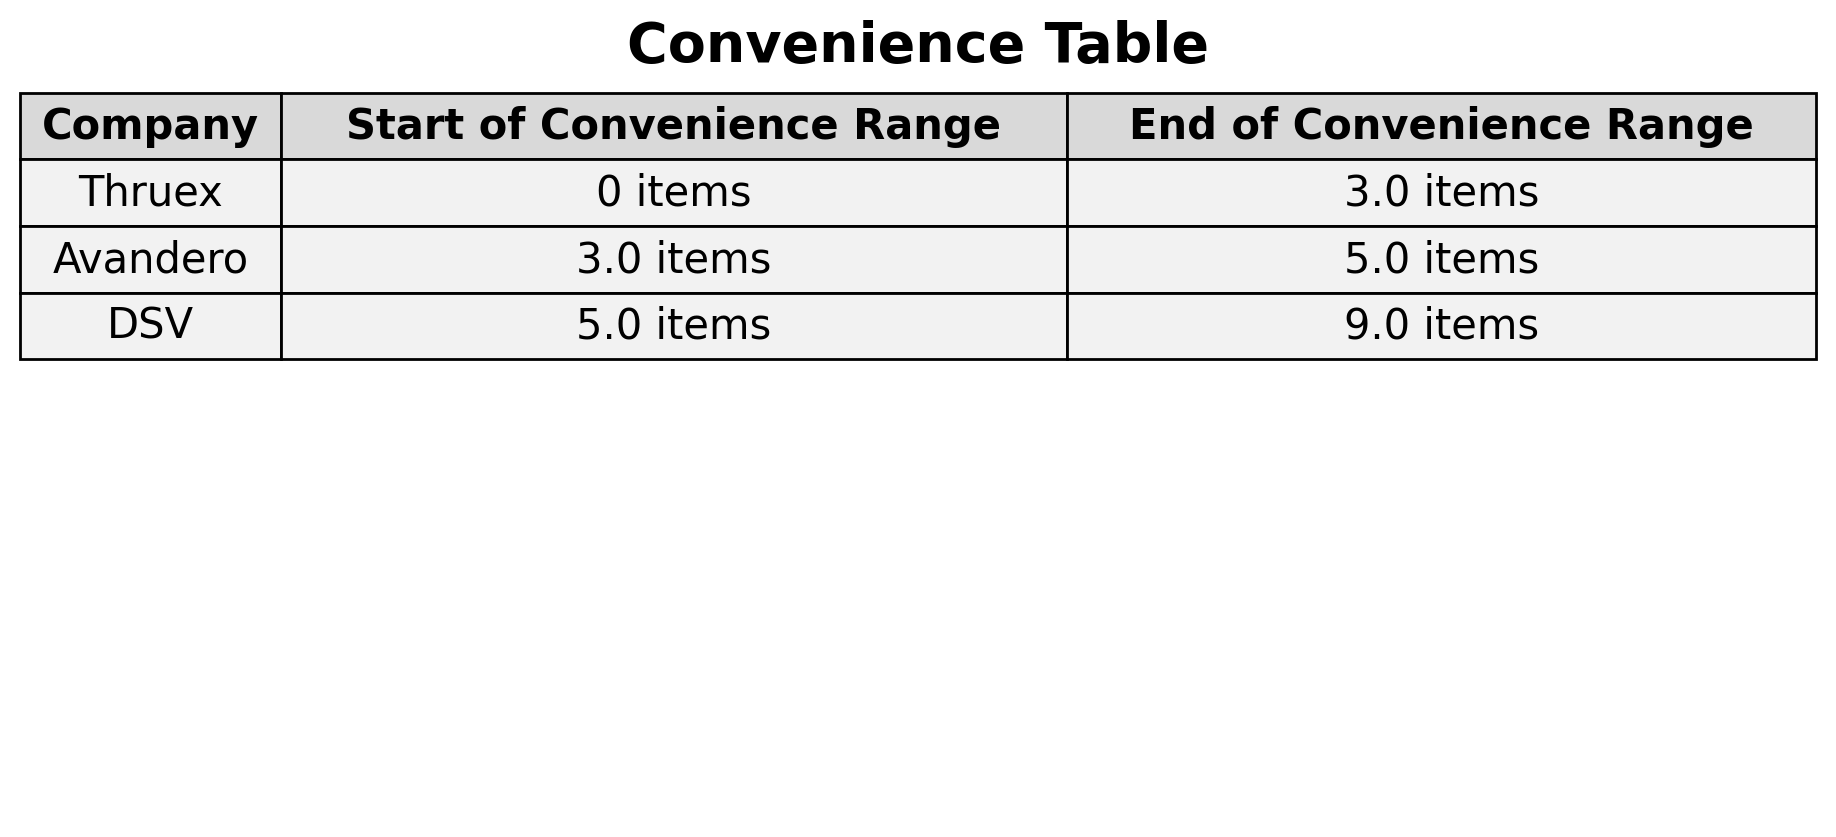
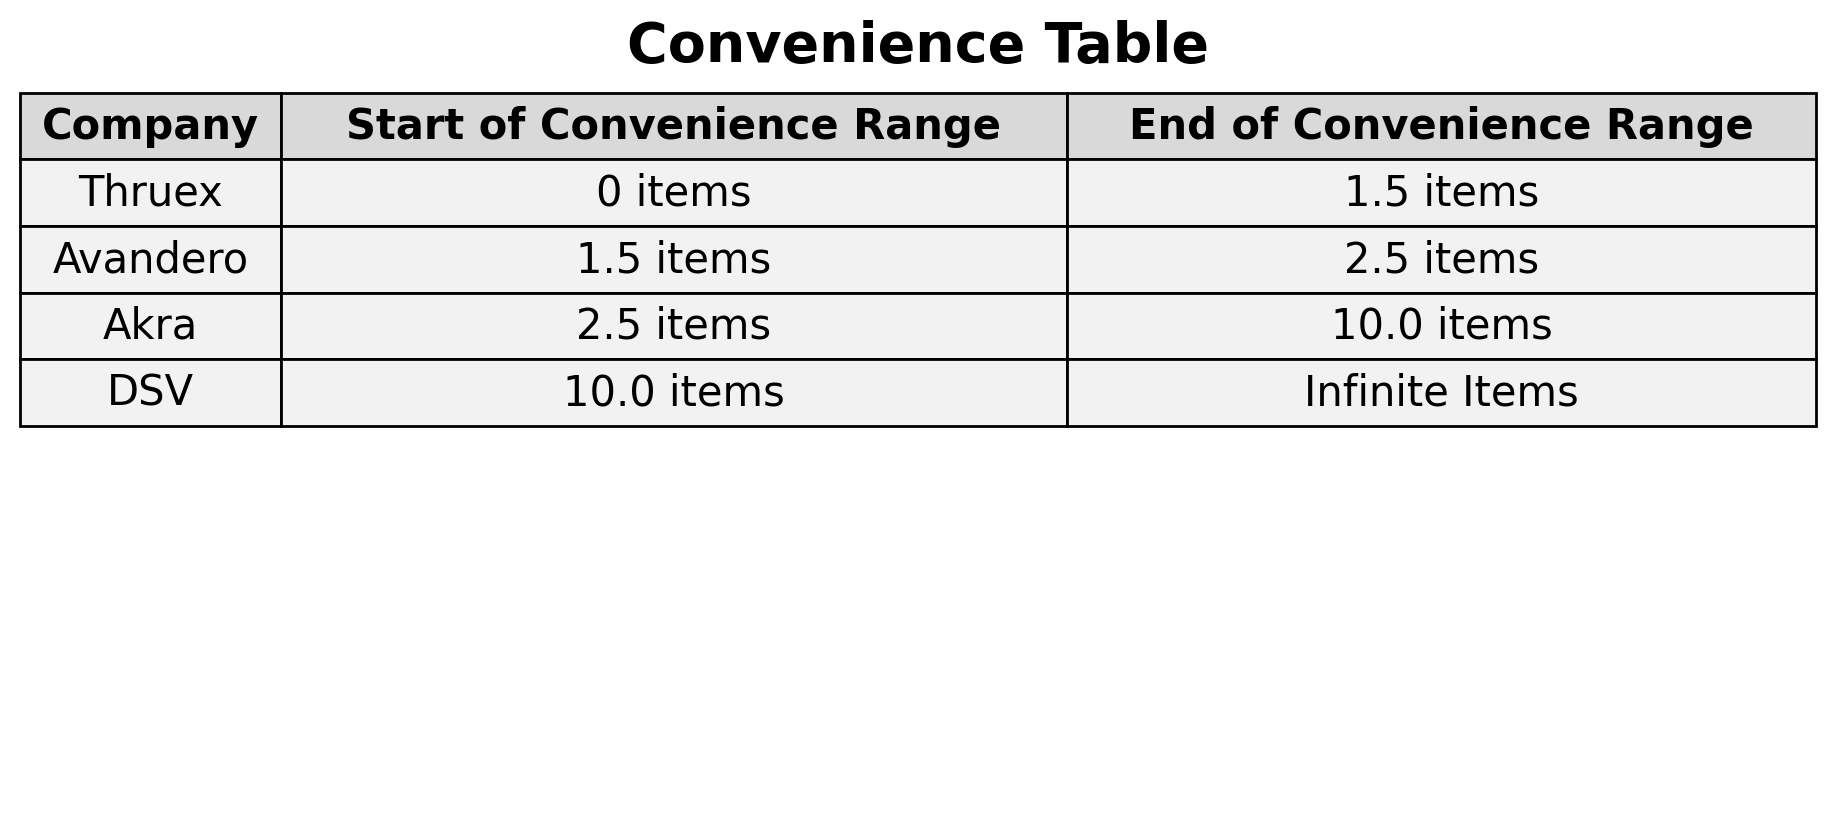
Fixed stuff on find_convenience/nImproved readibility on find_convenience

diff --git a/find_convenience/convenience_evaluation.py b/find_convenience/convenience_evaluation.py
@@ -1,5 +1,5 @@
 from simple_data_plotting_lib import OnlyColumnsTable, MultipleLinesGraph
-from numpy import linspace, zeros, array, arange
+from numpy import append, zeros, array, arange
 from scipy.optimize import fsolve
 
 
@@ -47,17 +47,19 @@ def main():
     companies_intersections = []
     for i in range(count):
         for j in range(i + 1, count):
-            companies_intersections.append(tuple(fsolve(function, array([0, 0]), (
+            companies_intersections.append(tuple(filter(lambda num: True if num > 0 else False, fsolve(function, array([0, 0]), (
                 [companies[i]['coefficient'], companies[j]['coefficient']],
-                [companies[i]['constant'], companies[j]['constant']]))))
+                [companies[i]['constant'], companies[j]['constant']])))))
     companies_intersections = sorted(companies_intersections, key=lambda k: (k[1], k[0]))
-    companies_intersections = [(round(item[1], 3), round(item[0], 3)) for item in companies_intersections]
+    companies_intersections = [(round(intersection[1], 3), round(intersection[0], 3)) for intersection in companies_intersections]
 
     # get the max graph value for the x coordinate
-    max_x_value = companies_intersections[0][0] + companies_intersections[len(companies_intersections) - 1][0]
+    max_x_value = 2 * companies_intersections[0][0] + companies_intersections[len(companies_intersections) - 1][0]
+    x_values = append(arange(0, max_x_value, round(max_x_value/15, 1)), max_x_value).round(1).tolist()
 
     # get the max graph value for the y coordinate
     max_y_value = companies_intersections[0][1] + companies_intersections[len(companies_intersections) - 1][1]
+    y_values = append(arange(0, max_y_value, round(max_y_value/15, 1)), max_y_value).round(1).tolist()
 
     # evaluate companies near the intersections
     best_path = []
@@ -95,29 +97,36 @@ def main():
     best_path_x = []
     best_path_y = []
     for node in best_path:
-        intervals = list(arange(node["start"][0], node["end"][0], max_x_value/10))
+        intervals = append(arange(node["start"][0], node["end"][0], round(node["end"][0]/15, 1)), node["end"][0]).round(1).tolist()
         best_path_x += intervals
         tmp = next(company for company in companies if company["name"] == node["name"])
         best_path_y += [tmp["coefficient"] * number + tmp["constant"] for number in intervals]
 
     # makes the graph
     graph = MultipleLinesGraph("Convenience Graph", "Quantity", "Costs", 15, 15, 20)  # creates a new graph
+
     for company in companies:
-        x = list(arange(0, max_x_value, max_x_value/10))
-        y = [company["coefficient"] * number + company["constant"] for number in x]
-        graph.add_line(x, y, company["name"])
-        graph.show_values_in_x_axis(x, max_x_value)
-        graph.show_values_in_y_axis(y, max_y_value)
+        y = [company["coefficient"] * number + company["constant"] for number in x_values]
+        graph.add_line(x_values, y, company["name"])
     graph.add_line(best_path_x, best_path_y, "Convenience")
+
+    graph.show_values_in_x_axis(append(x_values, [intersection[0] for intersection in companies_intersections]).tolist())
+    graph.show_values_in_y_axis(append(y_values, [intersection[1] for intersection in companies_intersections]).tolist())
+
     graph.fill_between_x_axis(best_path_x, best_path_y)
+
     graph.set_legend("lower right", 20)  # setting up the legend
+
+    for intersection in companies_intersections:
+        graph.add_point(intersection[0], intersection[1])
+
     graph.save_to_file("graph", "png")  # saves the graph to .png (all the others picture formats work as well)
 
     # assembling all the data gathered
     table_data = {
         "Company": [node["name"] for node in best_path],
-        "Start of Convenience Range": [str(node["start"][0]) + " items" for node in best_path],
-        "End of Convenience Range": [str(node["end"][0]) + " items" for node in best_path]
+        "Start of Convenience Range": [f'{node["start"][0]} items'for node in best_path],
+        "End of Convenience Range": map(lambda num: "Infinite Items" if num > max_x_value else f"{num} items", [node["end"][0] for node in best_path])
     }
 
     # makes a table

diff --git a/find_convenience/simple_data_plotting_lib.py b/find_convenience/simple_data_plotting_lib.py
@@ -20,27 +20,30 @@ class MultipleLinesGraph:
 
     # adds a line with a label assigned to it
     def add_line(self, x_arr, y_arr, label):
-        self.ax.plot(x_arr, y_arr, label=label, linewidth=2, marker="o")
+        self.ax.plot(x_arr, y_arr, label=label, linewidth=2)
+
+    def add_point(self, x, y):
+        self.ax.plot(x, y, color="black", linewidth=3, marker="o")
 
     # sets the legend up with the existing lines
     def set_legend(self, location, font_size):
         self.ax.legend(loc=location, handles=self.ax.get_lines(), prop={'size': font_size})
 
     # makes sure that the values in arr are shown on the x axis (better readability)
-    def show_values_in_x_axis(self, arr, max_value):
+    def show_values_in_x_axis(self, arr):
         # show only values not too close to each other
         for number in arr:
-            if len([num for num in self.x_ticks_arr if num > number > (num - (max_value / 50))]) == 0 and \
-               len([num for num in self.x_ticks_arr if num < number < (num + (max_value / 50))]) == 0:
+            if len([num for num in self.x_ticks_arr if num > number > (num - (arr[len(arr) - 1] / 40))]) == 0 and \
+               len([num for num in self.x_ticks_arr if num < number < (num + (arr[len(arr) - 1] / 40))]) == 0:
                 self.x_ticks_arr.append(number)
         self.ax.set_xticks(self.x_ticks_arr)
 
     # makes sure that the values in arr are shown on the y axis (better readability)
-    def show_values_in_y_axis(self, arr, max_value):
+    def show_values_in_y_axis(self, arr):
         # show only values not too close to each other
         for number in arr:
-            if len([num for num in self.y_ticks_arr if num > number > (num - (max_value / 50))]) == 0 and \
-               len([num for num in self.y_ticks_arr if num < number < (num + (max_value / 50))]) == 0:
+            if len([num for num in self.y_ticks_arr if num > number > (num - (arr[len(arr) - 1] / 40))]) == 0 and \
+               len([num for num in self.y_ticks_arr if num < number < (num + (arr[len(arr) - 1] / 40))]) == 0:
                 self.y_ticks_arr.append(number)
         self.ax.set_yticks(self.y_ticks_arr)
 

diff --git a/marginal-profits/marginal_profit.py b/marginal-profits/marginal_profit.py
@@ -1,6 +1,7 @@
 import csv
 from simple_data_plotting_lib import OnlyColumnsTable, MultipleLinesGraph
 
+
 # functions that returns a new array where every value has been subtracted by the one before
 def calculate_margin(arr):
     tmp = [0]

diff --git a/marginal-profits/simple_data_plotting_lib.py b/marginal-profits/simple_data_plotting_lib.py
@@ -1,4 +1,3 @@
-from matplotlib.font_manager import FontProperties
 import matplotlib.pyplot as plt
 import pandas as pd
 
